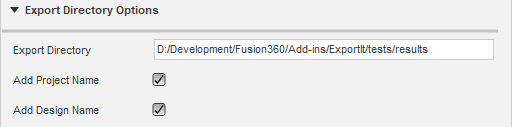
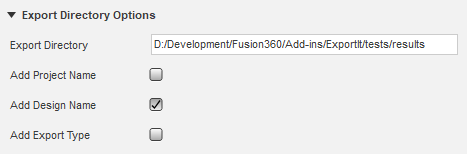
Export types and Step options added to the documentation

diff --git a/README.md b/README.md
@@ -9,10 +9,14 @@
     - [Basic workflow](#basic-workflow)
   - [Default Configuration Command](#default-configuration-command)
     - [STL Options](#stl-options)
-      - [Structure](#structure)
-      - [Refinement](#refinement)
+      - [STL Structure](#stl-structure)
+      - [STL Refinement](#stl-refinement)
+    - [STEP Options](#step-options)
+      - [STEP Structure](#step-structure)
     - [Export Directory Options](#export-directory-options)
     - [Filename Options](#filename-options)
+      - [Prefix](#prefix)
+      - [Filter](#filter)
     - [Version Info](#version-info)
     - [Elements Of The Export Name](#elements-of-the-export-name)
   - [Installation](#installation)
@@ -54,17 +58,17 @@ The behavior of STL export is configured in this section. Following options are 
 
 ![StlOptions](doc/stlOptions.png)
 
-#### Structure
+#### STL Structure
 
 Structures are used to define the granularity of exports.
 
 Option |Description
 ---------|---------
 One File | This structure corresponds to the built-in one and creates one file containing all visible BRep bodies.
-One File Per Body In Component | A component can have many occurrences in one design. This option will export each component only once regardless of the number of occurrences. It creates one file per body in a component. Due to this filter, it will not keep the original position in the 3d space. This structure is e.g useful if a design reuses components and wants to keep the number of exported files small.
-One File Per Body In Occurrence | This option corresponds to the integrated *One File Per Body*, but does not create double exports of the same body. It maintains the positions of the bodies at different occurrences. This structure is useful if the stl files are reassembled at a later point - e.g. in a slicer for multi color / multi material 3d prints.
+One File Per Body In Component | A component can have many occurrences in one design. This option will export each component only once regardless of the number of occurrences. It creates one file per body (or per selected body) in a component. Due to this filter, it will not keep the original position in the 3d space. This structure is e.g useful if a design reuses components and wants to keep the number of exported files small.
+One File Per Body In Occurrence | This option corresponds to the integrated *One File Per Body*, but does not create double exports of the same body and works with selected bodis, too. It maintains the positions of the bodies at different occurrences. This structure is useful if the stl files are reassembled at a later point - e.g. in a slicer for multi color / multi material 3d prints.
 
-#### Refinement
+#### STL Refinement
 
 Refinements can roughly be described as the mesh density of an export. Following refinements are pre-configured.
 
@@ -76,6 +80,17 @@ High | This option corresponds to the built-in one.
 Ultra | This one is based on the built-in *High* settings, but sets surface deviation to 0.000508mm and normal deviation to 15. This results in a much finer mesh and is great for very detailed geometry or large, roundish objects.
 
 One to many structures or refinements can be selected.
+
+### STEP Options
+
+The granularity of STEP exports is configured in this section.
+
+#### STEP Structure
+
+Option |Description
+---------|---------
+One File | This structure corresponds to exporting the root component with the built-in function and creates one file containing all visible BRep bodies.
+One File Per Component | This function corresponds to exporting a selected component but will create one file per component or selected component.
 
 ### Export Directory Options
 
@@ -93,7 +108,8 @@ Label | Description | Example
 ---------|----------|--------
 Export Directory | Target directory of the export or base directory of all exports | D:/Google Drive/3d Printing/Fusion 360
 Add Project Name | If checked the project name will be added to the export path | D:/Google Drive/3d Printing/Fusion 360/ExportItTest
-Add Design Name | If checked the design name will be added to the export path | D:/Google Drive/3d Printing/Fusion 360/01-Default
+Add Design Name | If checked the design name will be added to the export path | D:/Google Drive/3d Printing/Fusion 360/ExportItTest/01-Default
+Add Export Type | If checked the name of the export type (stl, step) to the export path | D:/Google Drive/3d Printing/Fusion 360/ExportItTest/01-Default/step
 
 ### Filename Options
 
@@ -101,17 +117,32 @@ The elements of a filename and how they're connected are configured in this sect
 
 ![Filename Options](doc/filenameOptions.png)
 
+#### Prefix
+
+Prefix are used for better grouping of exports.
+
 Label | Options | Description
 ---------|----------|---------
 Add Project Name |  | Adds the project name as a prefix to the filename.
 Add Design Name |  | Adds the design name as a prefix to the filename. This is useful if a project contains several designs and the design name is not part of the export directory (more [here](Export-Directory))
-Remove Version Tags |  | Removes the version tags (e.g. " v12") from the design name and linked components.
-Element Separator Tags | . | This options uses a "." (dot) as the separator.
-Element Separator Tags | - | This options uses a "-" (dash) as the separator.
-Element Separator Tags | \_ | This options uses a "_" (underscore) as the separator.
-Occurrence ID Separator | . | This options uses a "." (dot) as the separator.
-Occurrence ID Separator | - | This options uses a "-" (dash) as the separator.
-Occurrence ID Separator | \_ | This options uses a "_" (underscore) as the separator.
+
+#### Filter 
+
+Filters are used to make filenames more stable, readable or to remove characters that are not supported by the filesystem.
+
+Label | Options | Description | Example
+---------|----------|----------|---------
+Remove Version Tags |  | Removes the version tags from the design name and linked components. | 01-Default v5 -> 01-Default
+Element Separator Tags | . | This options uses a "." (dot) as the separator. | 01-Default.Component.Component.BodyName
+Element Separator Tags | - | This options uses a "-" (dash) as the separator. | 01-Default-Component-Component-BodyName
+Element Separator Tags | \_ | This options uses a "_" (underscore) as the separator. | 01-Default\_Component\_Component\_BodyName
+Occurrence ID Separator | . | This options uses a "." (dot) as the separator. | 01-Default.Component.1.Component.2.BodyName
+Occurrence ID Separator | - | This options uses a "-" (dash) as the separator. | 01-Default-Component-1.Component-2.BodyName
+Occurrence ID Separator | \_ | This options uses a "_" (underscore) as the separator. | 01-Default\_Component\_1.Component\_2.BodyName
+
+The default setting uses the dot for the element separator and the underscore for the occurrence ID separator and the resulting filenames will look like this:
+
+>01-Default.blocks_1.deep_1.deeper_1.deepest_1.block_5.Body1.stl
 
 ### Version Info
 
@@ -162,9 +193,12 @@ This add-in is developed and tested on a Microsoft® Windows® 10 system but sho
 
 ## What's New
 
+TODO Add whats new information
 Version | Date | Description
 ---------|----------|---------
 0.1.0 | 09.07.2020 | Initial version that includes a defaults editor and stl exports that supports different structures and refinements
+0.2.0 | XX.XX.2020 | TODO Add date and description
+
 
 ## Known Issus
 
@@ -173,15 +207,17 @@ Version | Date | Description
 
 ## Wishlist
 
-- [x] Defaults editor
-- [ ] Export of selected occurrences
-- [x] Export of selected bodies
-- [ ] STEP Exports
-- [ ] F3D Exports
-- [ ] Special refinement for selected bodies that is stored in the project configuration
-- [ ] Export of projects
-- [ ] Selection of stl format (text / binary)
-- [ ] Custom refinement
-- [ ] Filename filter to replace spaces with configurable character
-- [ ] Configuration validation
-- [ ] Export filter that excludes linked components
+- [x] Defaults editor.
+- [ ] Export of selected occurrences.
+- [x] Export of selected bodies.
+- [x] STEP Exports.
+- [ ] F3D Exports.
+- [ ] Special refinement for selected bodies that is stored in the project configuration.
+- [ ] Export of projects.
+- [ ] Selection of stl format (text / binary).
+- [ ] Custom refinement.
+- [ ] Filename filter to replace spaces with configurable character.
+- [ ] Configuration validation.
+- [ ] Export filter that excludes linked components.
+- [ ] Show export summary message after export.
+- [ ] Store folded / unfolded state of groups 
